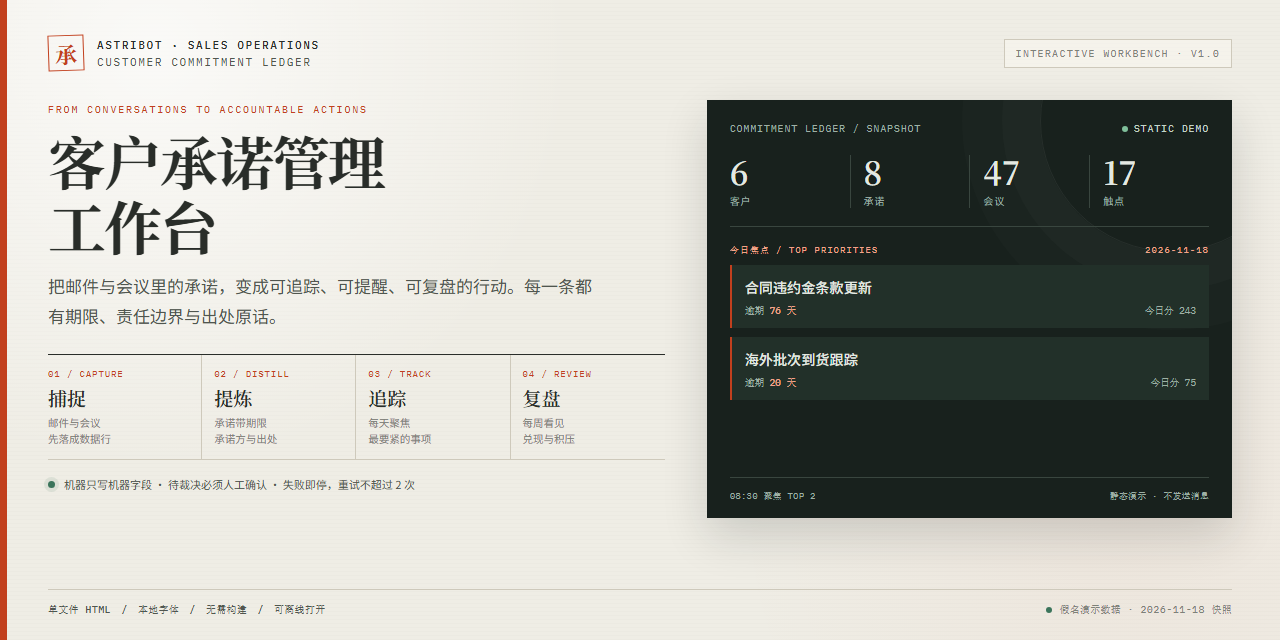
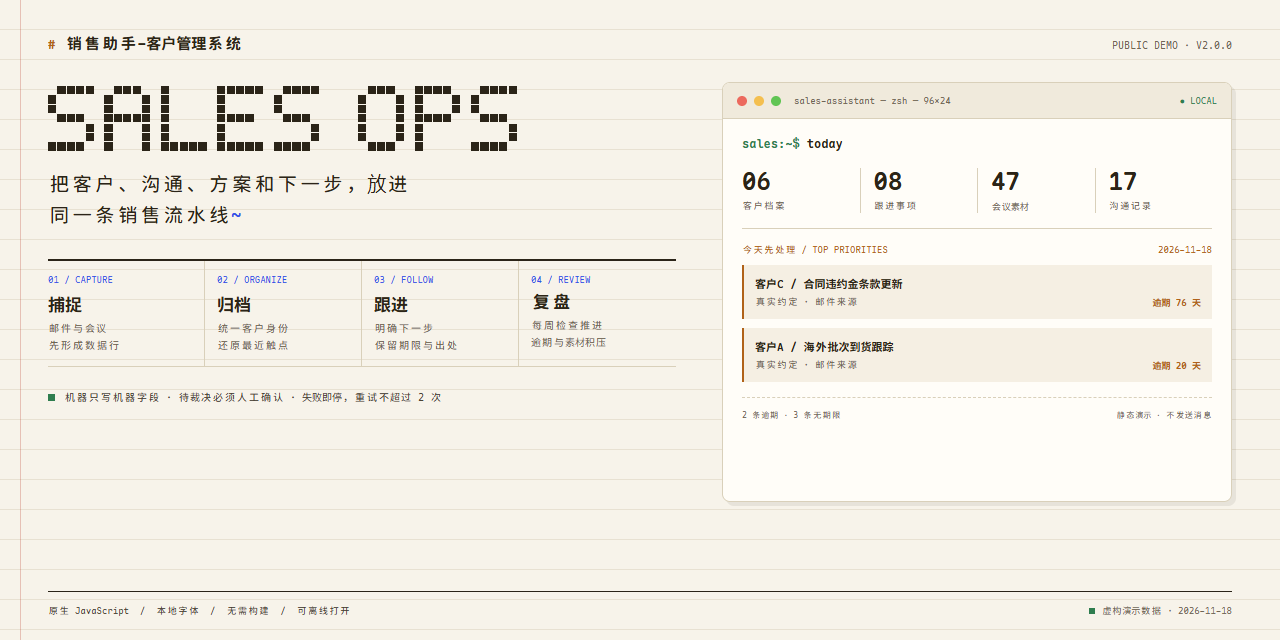
Refresh project introduction card
Replace the old card with the sales assistant visual system and an editable HTML source.

diff --git a/assets/project-card.html b/assets/project-card.html
@@ -1,106 +1,71 @@
-<!doctype html>
-<html lang="zh-CN">
+<!DOCTYPE html>
+<html lang="zh-CN" data-canvas-width="1280" data-canvas-height="640" style="width:1280px;height:640px;">
 <head>
-<meta charset="utf-8">
-<meta name="viewport" content="width=device-width, initial-scale=1">
-<title>客户承诺管理工作台｜项目介绍卡片</title>
+<meta charset="UTF-8">
+<meta name="viewport" content="width=1280, initial-scale=1">
+<title>销售助手-客户管理系统｜项目介绍卡片</title>
 <style>
+@font-face{font-family:"Maple Mono";src:url("fonts/maple-regular.woff2") format("woff2");font-weight:400;font-style:normal;font-display:swap}
+@font-face{font-family:"Maple Mono";src:url("fonts/maple-bold.woff2") format("woff2");font-weight:700;font-style:normal;font-display:swap}
 @font-face{font-family:"Noto Sans SC";src:url("fonts/noto-sans-sc-400.woff2") format("woff2");font-weight:400;font-style:normal;font-display:swap}
 @font-face{font-family:"Noto Sans SC";src:url("fonts/noto-sans-sc-500.woff2") format("woff2");font-weight:500;font-style:normal;font-display:swap}
 @font-face{font-family:"Noto Sans SC";src:url("fonts/noto-sans-sc-700.woff2") format("woff2");font-weight:700;font-style:normal;font-display:swap}
-@font-face{font-family:"Noto Serif SC";src:url("fonts/noto-serif-sc-600.woff2") format("woff2");font-weight:600;font-style:normal;font-display:swap}
-@font-face{font-family:"Noto Serif SC";src:url("fonts/noto-serif-sc-700.woff2") format("woff2");font-weight:700;font-style:normal;font-display:swap}
-@font-face{font-family:"IBM Plex Mono";src:url("fonts/ibm-plex-mono-400.woff2") format("woff2");font-weight:400;font-style:normal;font-display:swap}
-@font-face{font-family:"IBM Plex Mono";src:url("fonts/ibm-plex-mono-500.woff2") format("woff2");font-weight:500;font-style:normal;font-display:swap}
-:root{--paper:#efede5;--surface:#faf8f2;--ink:#292d29;--ink2:#50564f;--muted:#7d8178;--rule:#cec9bb;--machine:#18211d;--machine2:#223029;--machine-ink:#e4e9e2;--machine-muted:#9fb0a5;--signal:#c2401e;--signal-soft:#f0a58b;--serif:"Noto Serif SC",serif;--sans:"Noto Sans SC",sans-serif;--mono:"IBM Plex Mono",monospace}
+:root{--paper:#f7f3ea;--card:#fffdf8;--ink:#2b2418;--ink2:#4a4234;--muted:#6f6553;--line:#d9d0ba;--blue:#3350e6;--green:#2f7d4f;--orange:#b06219;--mono:"Maple Mono","Noto Sans SC",monospace}
 *{box-sizing:border-box}
-html,body{margin:0;width:1280px;height:640px;overflow:hidden;background:var(--paper)}
-body{font-family:var(--sans);color:var(--ink)}
-.card{position:relative;width:1280px;height:640px;padding:34px 48px 28px;overflow:hidden;background:radial-gradient(circle at 12% 8%,rgba(255,255,255,.72),transparent 33%),radial-gradient(circle at 88% 80%,rgba(194,64,30,.045),transparent 32%),repeating-linear-gradient(0deg,rgba(63,60,48,.014) 0,rgba(63,60,48,.014) 1px,transparent 1px,transparent 4px),var(--paper)}
-.card:before{content:"";position:absolute;left:0;top:0;width:7px;height:100%;background:var(--signal)}
-.header{position:relative;z-index:1;display:flex;align-items:center;justify-content:space-between;height:38px}
-.brand{display:flex;align-items:center;gap:13px}
-.seal{display:grid;place-items:center;width:36px;height:36px;border:1.5px solid var(--signal);color:var(--signal);font-family:var(--serif);font-size:22px;font-weight:700;transform:rotate(-2deg)}
-.brand-copy{font-family:var(--mono);font-size:11px;letter-spacing:.15em;color:var(--ink2)}
-.brand-copy b{display:block;margin-bottom:3px;color:var(--ink);font-weight:500}
-.header-badge{padding:7px 11px;border:1px solid var(--rule);font-family:var(--mono);font-size:10px;letter-spacing:.13em;color:var(--muted);background:rgba(250,248,242,.48)}
-.main{position:relative;z-index:1;display:grid;grid-template-columns:1.08fr .92fr;gap:42px;margin-top:28px}
-.story{padding-top:3px}
-.kicker{font-family:var(--mono);font-size:10px;letter-spacing:.18em;color:var(--signal)}
-h1{margin:12px 0 13px;font-family:var(--serif);font-size:58px;font-weight:700;line-height:1.12;letter-spacing:-.035em}
-h1 span{display:block}
-.subtitle{max-width:560px;margin:0;color:var(--ink2);font-size:17px;line-height:1.75;font-weight:400}
-.steps{display:grid;grid-template-columns:repeat(4,1fr);margin-top:24px;border-top:1px solid var(--ink);border-bottom:1px solid var(--rule)}
-.step{padding:13px 10px 12px 0;border-right:1px solid var(--rule)}
-.step:not(:first-child){padding-left:12px}
-.step:last-child{border-right:0}
-.step-no{font-family:var(--mono);font-size:9px;letter-spacing:.1em;color:var(--signal)}
-.step-title{margin-top:5px;font-family:var(--serif);font-size:19px;font-weight:600}
-.step-desc{margin-top:4px;color:var(--muted);font-size:10.5px;line-height:1.5}
-.rules{display:flex;align-items:center;gap:9px;margin-top:16px;color:var(--ink2);font-size:11px;line-height:1.6}
-.rules i{width:7px;height:7px;border-radius:50%;background:#3b745b;box-shadow:0 0 0 4px rgba(59,116,91,.1);flex:none}
-.preview{height:418px;padding:22px 23px 19px;background:var(--machine);color:var(--machine-ink);box-shadow:0 18px 42px rgba(24,33,29,.16);position:relative;overflow:hidden}
-.preview:after{content:"";position:absolute;right:-70px;top:-110px;width:260px;height:260px;border:1px solid rgba(228,233,226,.07);border-radius:50%;box-shadow:0 0 0 38px rgba(228,233,226,.022),0 0 0 78px rgba(228,233,226,.015)}
-.preview-head{position:relative;z-index:1;display:flex;justify-content:space-between;align-items:center;font-family:var(--mono);font-size:9.5px;letter-spacing:.12em;color:var(--machine-muted)}
-.live{display:inline-flex;align-items:center;gap:6px;color:#c3d4c8}
-.live:before{content:"";width:6px;height:6px;border-radius:50%;background:#7fbf9a}
-.metrics{position:relative;z-index:1;display:grid;grid-template-columns:repeat(4,1fr);margin-top:20px;padding-bottom:18px;border-bottom:1px solid #39463f}
-.metric{padding-left:13px;border-left:1px solid #39463f}
-.metric:first-child{padding-left:0;border-left:0}
-.metric-value{font-family:var(--serif);font-size:32px;font-weight:600;line-height:1}
-.metric-label{margin-top:6px;color:var(--machine-muted);font-size:10px;letter-spacing:.08em}
-.focus{position:relative;z-index:1;display:flex;justify-content:space-between;margin:17px 0 10px;font-family:var(--mono);font-size:9px;letter-spacing:.11em;color:var(--signal-soft)}
-.task{position:relative;z-index:1;margin-top:9px;padding:12px 13px 11px;border-left:2px solid var(--signal);background:var(--machine2)}
-.task-title{font-size:14px;font-weight:500;letter-spacing:.01em}
-.task-meta{display:flex;justify-content:space-between;margin-top:7px;color:var(--machine-muted);font-family:var(--mono);font-size:9.5px}
-.task-meta b{color:var(--signal-soft);font-weight:500}
-.preview-foot{position:absolute;z-index:1;left:23px;right:23px;bottom:17px;display:flex;justify-content:space-between;padding-top:12px;border-top:1px solid #39463f;color:var(--machine-muted);font-family:var(--mono);font-size:8.8px;letter-spacing:.04em}
-.footer{position:absolute;z-index:1;left:48px;right:48px;bottom:24px;display:flex;align-items:center;justify-content:space-between;padding-top:13px;border-top:1px solid var(--rule);font-family:var(--mono);font-size:9.5px;letter-spacing:.08em;color:var(--muted)}
-.footer strong{color:var(--ink2);font-weight:500}
-.privacy{display:inline-flex;align-items:center;gap:7px}
-.privacy:before{content:"";width:6px;height:6px;border-radius:50%;background:#3b745b}
+html,body{margin:0;padding:0;overflow:visible}
+body{background:var(--paper);color:var(--ink);font-family:var(--mono)}
+.card{position:relative;padding:32px 48px 28px;background-color:var(--paper);background-image:linear-gradient(to bottom,transparent 29px,var(--line) 30px);background-size:100% 30px}
+.card:before{content:"";position:absolute;left:20px;top:0;bottom:0;width:1px;background:rgba(192,74,58,.3)}
+.header{display:flex;align-items:baseline;gap:10px;height:25px;font-size:12px}
+.header .hash{color:var(--orange);font-weight:700}.header h1{margin:0;font-size:15px}.header .version{margin-left:auto;color:var(--muted);font-size:10px}
+.main{display:grid;grid-template-columns:minmax(0,1fr) 510px;gap:46px;margin-top:25px}
+.story{padding-top:4px}.pixel-logo{display:block;width:470px;max-width:100%;height:auto;fill:currentColor}
+.lead{max-width:33ch;margin:17px 0 0;font-size:19px;line-height:1.65;font-weight:500}.lead span{color:var(--blue)}
+.flow{display:grid;grid-template-columns:repeat(4,1fr);margin-top:28px;border-top:2px solid var(--ink);border-bottom:1px solid var(--line)}
+.step{padding:13px 12px 12px 0;border-right:1px solid var(--line)}.step:not(:first-child){padding-left:12px}.step:last-child{border-right:0}.step-no{color:var(--blue);font-size:9px}.step-title{margin-top:5px;font-size:17px;font-weight:700}.step-desc{margin-top:5px;color:var(--muted);font-size:10px;line-height:1.65}
+.rules{display:flex;align-items:flex-start;gap:9px;margin-top:22px;color:var(--ink2);font-size:10px;line-height:1.8}.rules i{width:7px;height:7px;margin-top:5px;background:var(--green);flex:none}
+.terminal{height:420px;overflow:hidden;border:1px solid var(--line);border-radius:8px;background:var(--card);box-shadow:4px 4px 0 rgba(43,36,24,.08)}
+.term-bar{display:flex;align-items:center;height:36px;padding:0 14px;border-bottom:1px solid var(--line);background:#f0eadc}.dots{display:flex;gap:7px}.dots i{width:10px;height:10px;border-radius:50%}.dots i:nth-child(1){background:#ec6a5e}.dots i:nth-child(2){background:#f4bf4f}.dots i:nth-child(3){background:#61c554}.term-title{margin-left:13px;color:var(--muted);font-size:9px}.local{margin-left:auto;color:var(--green);font-size:9px}
+.term-body{padding:17px 19px;font-size:11px}.command{font-size:12px;font-weight:700}.prompt{color:var(--green)}
+.metrics{display:grid;grid-template-columns:repeat(4,1fr);margin-top:16px;padding-bottom:15px;border-bottom:1px solid var(--line)}.metric{padding-left:13px;border-left:1px solid var(--line)}.metric:first-child{padding-left:0;border-left:0}.metric-value{font-size:24px;font-weight:700;line-height:1.2}.metric-label{margin-top:3px;color:var(--muted);font-size:9px}
+.focus{display:flex;justify-content:space-between;margin:15px 0 9px;color:var(--orange);font-size:9px}.task{padding:10px 11px;border-left:2px solid var(--orange);background:#f5efe3}.task + .task{margin-top:9px}.task-title{font-size:11px;font-weight:700}.task-meta{display:flex;justify-content:space-between;margin-top:5px;color:var(--muted);font-size:9px}.task-meta strong{color:var(--orange)}
+.term-foot{display:flex;justify-content:space-between;margin-top:15px;padding-top:11px;border-top:1px dashed var(--line);color:var(--muted);font-size:8px}
+.footer{position:absolute;left:48px;right:48px;bottom:23px;display:flex;align-items:center;justify-content:space-between;padding-top:12px;border-top:1px solid var(--ink);color:var(--muted);font-size:9px}.footer strong{color:var(--ink2);font-weight:500}.privacy:before{content:"";display:inline-block;width:6px;height:6px;margin-right:7px;background:var(--green)}
 </style>
 </head>
-<body>
-<main class="card" aria-label="客户承诺管理工作台项目介绍卡片">
-  <header class="header">
-    <div class="brand">
-      <div class="seal">承</div>
-      <div class="brand-copy"><b>ASTRIBOT · SALES OPERATIONS</b>CUSTOMER COMMITMENT LEDGER</div>
-    </div>
-    <div class="header-badge">INTERACTIVE WORKBENCH · V1.0</div>
-  </header>
+<body style="width:1280px;height:640px;">
+<main class="card" data-canvas-root style="width:1280px;height:640px;" aria-label="销售助手-客户管理系统项目介绍卡片">
+  <header class="header"><span class="hash">#</span><h1>销售助手-客户管理系统</h1><span class="version">PUBLIC DEMO · V2.0.0</span></header>
   <div class="main">
-    <section class="story">
-      <div class="kicker">FROM CONVERSATIONS TO ACCOUNTABLE ACTIONS</div>
-      <h1><span>客户承诺管理</span><span>工作台</span></h1>
-      <p class="subtitle">把邮件与会议里的承诺，变成可追踪、可提醒、可复盘的行动。每一条都有期限、责任边界与出处原话。</p>
-      <div class="steps">
-        <div class="step"><div class="step-no">01 / CAPTURE</div><div class="step-title">捕捉</div><div class="step-desc">邮件与会议<br>先落成数据行</div></div>
-        <div class="step"><div class="step-no">02 / DISTILL</div><div class="step-title">提炼</div><div class="step-desc">承诺带期限<br>承诺方与出处</div></div>
-        <div class="step"><div class="step-no">03 / TRACK</div><div class="step-title">追踪</div><div class="step-desc">每天聚焦<br>最要紧的事项</div></div>
-        <div class="step"><div class="step-no">04 / REVIEW</div><div class="step-title">复盘</div><div class="step-desc">每周看见<br>兑现与积压</div></div>
+    <section class="story" data-layer-id="project-story">
+      <svg class="pixel-logo" viewBox="0 0 400 56" role="img" aria-label="SALES OPS" shape-rendering="crispEdges"><rect x="8" y="0" width="7" height="7"/><rect x="16" y="0" width="7" height="7"/><rect x="24" y="0" width="7" height="7"/><rect x="32" y="0" width="7" height="7"/><rect x="0" y="8" width="7" height="7"/><rect x="0" y="16" width="7" height="7"/><rect x="8" y="24" width="7" height="7"/><rect x="16" y="24" width="7" height="7"/><rect x="24" y="24" width="7" height="7"/><rect x="32" y="32" width="7" height="7"/><rect x="32" y="40" width="7" height="7"/><rect x="0" y="48" width="7" height="7"/><rect x="8" y="48" width="7" height="7"/><rect x="16" y="48" width="7" height="7"/><rect x="24" y="48" width="7" height="7"/><rect x="56" y="0" width="7" height="7"/><rect x="64" y="0" width="7" height="7"/><rect x="72" y="0" width="7" height="7"/><rect x="48" y="8" width="7" height="7"/><rect x="80" y="8" width="7" height="7"/><rect x="48" y="16" width="7" height="7"/><rect x="80" y="16" width="7" height="7"/><rect x="48" y="24" width="7" height="7"/><rect x="56" y="24" width="7" height="7"/><rect x="64" y="24" width="7" height="7"/><rect x="72" y="24" width="7" height="7"/><rect x="80" y="24" width="7" height="7"/><rect x="48" y="32" width="7" height="7"/><rect x="80" y="32" width="7" height="7"/><rect x="48" y="40" width="7" height="7"/><rect x="80" y="40" width="7" height="7"/><rect x="48" y="48" width="7" height="7"/><rect x="80" y="48" width="7" height="7"/><rect x="96" y="0" width="7" height="7"/><rect x="96" y="8" width="7" height="7"/><rect x="96" y="16" width="7" height="7"/><rect x="96" y="24" width="7" height="7"/><rect x="96" y="32" width="7" height="7"/><rect x="96" y="40" width="7" height="7"/><rect x="96" y="48" width="7" height="7"/><rect x="104" y="48" width="7" height="7"/><rect x="112" y="48" width="7" height="7"/><rect x="120" y="48" width="7" height="7"/><rect x="128" y="48" width="7" height="7"/><rect x="144" y="0" width="7" height="7"/><rect x="152" y="0" width="7" height="7"/><rect x="160" y="0" width="7" height="7"/><rect x="168" y="0" width="7" height="7"/><rect x="176" y="0" width="7" height="7"/><rect x="144" y="8" width="7" height="7"/><rect x="144" y="16" width="7" height="7"/><rect x="144" y="24" width="7" height="7"/><rect x="152" y="24" width="7" height="7"/><rect x="160" y="24" width="7" height="7"/><rect x="168" y="24" width="7" height="7"/><rect x="144" y="32" width="7" height="7"/><rect x="144" y="40" width="7" height="7"/><rect x="144" y="48" width="7" height="7"/><rect x="152" y="48" width="7" height="7"/><rect x="160" y="48" width="7" height="7"/><rect x="168" y="48" width="7" height="7"/><rect x="176" y="48" width="7" height="7"/><rect x="200" y="0" width="7" height="7"/><rect x="208" y="0" width="7" height="7"/><rect x="216" y="0" width="7" height="7"/><rect x="224" y="0" width="7" height="7"/><rect x="192" y="8" width="7" height="7"/><rect x="192" y="16" width="7" height="7"/><rect x="200" y="24" width="7" height="7"/><rect x="208" y="24" width="7" height="7"/><rect x="216" y="24" width="7" height="7"/><rect x="224" y="32" width="7" height="7"/><rect x="224" y="40" width="7" height="7"/><rect x="192" y="48" width="7" height="7"/><rect x="200" y="48" width="7" height="7"/><rect x="208" y="48" width="7" height="7"/><rect x="216" y="48" width="7" height="7"/><rect x="272" y="0" width="7" height="7"/><rect x="280" y="0" width="7" height="7"/><rect x="288" y="0" width="7" height="7"/><rect x="264" y="8" width="7" height="7"/><rect x="296" y="8" width="7" height="7"/><rect x="264" y="16" width="7" height="7"/><rect x="296" y="16" width="7" height="7"/><rect x="264" y="24" width="7" height="7"/><rect x="296" y="24" width="7" height="7"/><rect x="264" y="32" width="7" height="7"/><rect x="296" y="32" width="7" height="7"/><rect x="264" y="40" width="7" height="7"/><rect x="296" y="40" width="7" height="7"/><rect x="272" y="48" width="7" height="7"/><rect x="280" y="48" width="7" height="7"/><rect x="288" y="48" width="7" height="7"/><rect x="312" y="0" width="7" height="7"/><rect x="320" y="0" width="7" height="7"/><rect x="328" y="0" width="7" height="7"/><rect x="336" y="0" width="7" height="7"/><rect x="312" y="8" width="7" height="7"/><rect x="344" y="8" width="7" height="7"/><rect x="312" y="16" width="7" height="7"/><rect x="344" y="16" width="7" height="7"/><rect x="312" y="24" width="7" height="7"/><rect x="320" y="24" width="7" height="7"/><rect x="328" y="24" width="7" height="7"/><rect x="336" y="24" width="7" height="7"/><rect x="312" y="32" width="7" height="7"/><rect x="312" y="40" width="7" height="7"/><rect x="312" y="48" width="7" height="7"/><rect x="368" y="0" width="7" height="7"/><rect x="376" y="0" width="7" height="7"/><rect x="384" y="0" width="7" height="7"/><rect x="392" y="0" width="7" height="7"/><rect x="360" y="8" width="7" height="7"/><rect x="360" y="16" width="7" height="7"/><rect x="368" y="24" width="7" height="7"/><rect x="376" y="24" width="7" height="7"/><rect x="384" y="24" width="7" height="7"/><rect x="392" y="32" width="7" height="7"/><rect x="392" y="40" width="7" height="7"/><rect x="360" y="48" width="7" height="7"/><rect x="368" y="48" width="7" height="7"/><rect x="376" y="48" width="7" height="7"/><rect x="384" y="48" width="7" height="7"/></svg>
+      <p class="lead">把客户、沟通、方案和下一步，放进同一条销售流水线<span>~</span></p>
+      <div class="flow">
+        <div class="step"><div class="step-no">01 / CAPTURE</div><div class="step-title">捕捉</div><div class="step-desc">邮件与会议<br>先形成数据行</div></div>
+        <div class="step"><div class="step-no">02 / ORGANIZE</div><div class="step-title">归档</div><div class="step-desc">统一客户身份<br>还原最近触点</div></div>
+        <div class="step"><div class="step-no">03 / FOLLOW</div><div class="step-title">跟进</div><div class="step-desc">明确下一步<br>保留期限与出处</div></div>
+        <div class="step"><div class="step-no">04 / REVIEW</div><div class="step-title">复盘</div><div class="step-desc">每周检查推进<br>逾期与素材积压</div></div>
       </div>
       <div class="rules"><i></i><span>机器只写机器字段 · 待裁决必须人工确认 · 失败即停，重试不超过 2 次</span></div>
     </section>
-    <section class="preview" aria-label="工作台数据快照示意">
-      <div class="preview-head"><span>COMMITMENT LEDGER / SNAPSHOT</span><span class="live">STATIC DEMO</span></div>
-      <div class="metrics">
-        <div class="metric"><div class="metric-value">6</div><div class="metric-label">客户</div></div>
-        <div class="metric"><div class="metric-value">8</div><div class="metric-label">承诺</div></div>
-        <div class="metric"><div class="metric-value">47</div><div class="metric-label">会议</div></div>
-        <div class="metric"><div class="metric-value">17</div><div class="metric-label">触点</div></div>
+    <section class="terminal" data-layer-id="terminal-preview" aria-label="工作台数据快照示意">
+      <div class="term-bar"><span class="dots" aria-hidden="true"><i></i><i></i><i></i></span><span class="term-title">sales-assistant — zsh — 96×24</span><span class="local">● LOCAL</span></div>
+      <div class="term-body">
+        <div class="command"><span class="prompt">sales:~$</span> today</div>
+        <div class="metrics">
+          <div class="metric"><div class="metric-value">06</div><div class="metric-label">客户档案</div></div>
+          <div class="metric"><div class="metric-value">08</div><div class="metric-label">跟进事项</div></div>
+          <div class="metric"><div class="metric-value">47</div><div class="metric-label">会议素材</div></div>
+          <div class="metric"><div class="metric-value">17</div><div class="metric-label">沟通记录</div></div>
+        </div>
+        <div class="focus"><span>今天先处理 / TOP PRIORITIES</span><span>2026-11-18</span></div>
+        <div class="task"><div class="task-title">客户C / 合同违约金条款更新</div><div class="task-meta"><span>真实约定 · 邮件来源</span><strong>逾期 76 天</strong></div></div>
+        <div class="task"><div class="task-title">客户A / 海外批次到货跟踪</div><div class="task-meta"><span>真实约定 · 邮件来源</span><strong>逾期 20 天</strong></div></div>
+        <div class="term-foot"><span>2 条逾期 · 3 条无期限</span><span>静态演示 · 不发送消息</span></div>
       </div>
-      <div class="focus"><span>今日焦点 / TOP PRIORITIES</span><span>2026-11-18</span></div>
-      <div class="task"><div class="task-title">合同违约金条款更新</div><div class="task-meta"><span>逾期 <b>76 天</b></span><span>今日分 243</span></div></div>
-      <div class="task"><div class="task-title">海外批次到货跟踪</div><div class="task-meta"><span>逾期 <b>20 天</b></span><span>今日分 75</span></div></div>
-      <div class="preview-foot"><span>08:30 聚焦 TOP 2</span><span>静态演示 · 不发送消息</span></div>
     </section>
   </div>
-  <footer class="footer">
-    <strong>单文件 HTML　/　本地字体　/　无需构建　/　可离线打开</strong>
-    <span class="privacy">假名演示数据 · 2026-11-18 快照</span>
-  </footer>
+  <footer class="footer"><strong>原生 JavaScript　/　本地字体　/　无需构建　/　可离线打开</strong><span class="privacy">虚构演示数据 · 2026-11-18</span></footer>
 </main>
 </body>
 </html>
